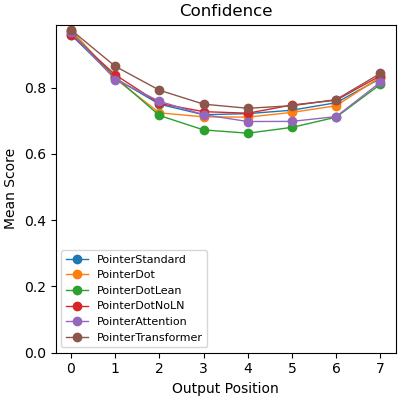
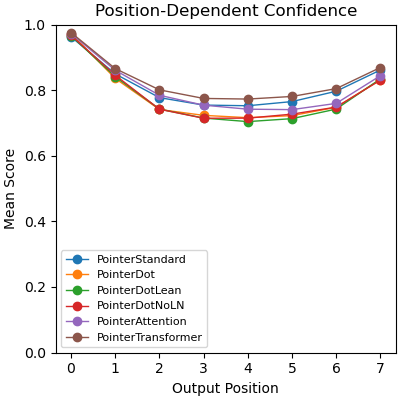
Supervised results for TSP

diff --git a/experiments/ptrArchComp_TSP_SL.py b/experiments/ptrArchComp_TSP_SL.py
@@ -89,10 +89,18 @@ def trainTestModel():
     print(f"Doing training...")
     trainLoss = torch.zeros((trainEpochs, numNets, numRuns))
     testLoss = torch.zeros((testEpochs, numNets, numRuns))
+    trainTourLength = torch.zeros((trainEpochs, numNets, numRuns))
+    testTourLength = torch.zeros((testEpochs, numNets, numRuns))
+    trainTourComplete = torch.zeros((trainEpochs, numNets, numRuns))
+    testTourComplete = torch.zeros((testEpochs, numNets, numRuns))
+    trainTourValidLength = torch.zeros((trainEpochs, numNets, numRuns))
+    testTourValidLength = torch.zeros((testEpochs, numNets, numRuns))
     trainPositionError = torch.full((trainEpochs, num_cities, numNets, numRuns), torch.nan) # keep track of where there was error
     trainMaxScore = torch.full((trainEpochs, num_cities, numNets, numRuns), torch.nan) # keep track of confidence of model
     testMaxScore = torch.full((testEpochs, num_cities, numNets, numRuns), torch.nan) 
     for run in range(numRuns):
+        print(f"Training round of networks {run+1}/{numRuns}...")
+        
         # create pointer networks with different pointer methods
         nets = [transformers.PointerNetwork(input_dim, embedding_dim, temperature=temperature, pointer_method=POINTER_METHOD, 
                                             thompson=False, encoding_layers=encoding_layers, heads=heads, kqnorm=True, 
@@ -105,12 +113,12 @@ def trainTestModel():
 
         for epoch in tqdm(range(trainEpochs)):
             # generate batch
-            input, target = datasets.tsp_batch(batchSize, num_cities)
-            input, target = input.to(device), target.to(device)
+            input, target, _, dists = datasets.tsp_batch(batchSize, num_cities, return_full=True)
+            input, target, dists = input.to(device), target.to(device), dists.to(device)
 
             # zero gradients, get output of network
             for opt in optimizers: opt.zero_grad()
-            log_scores, _ = map(list, zip(*[net(input) for net in nets]))
+            log_scores, choices = map(list, zip(*[net(input) for net in nets]))
 
             # measure loss with negative log-likelihood
             unrolled = [log_score.view(-1, log_score.size(-1)) for log_score in log_scores]
@@ -127,6 +135,11 @@ def trainTestModel():
 
             # measure position dependent error 
             with torch.no_grad():
+                # get distance traveled
+                tour_complete, tour_distance = map(list, zip(*[training.measureReward_tsp(dists, choice) for choice in choices]))
+                tour_complete = [torch.all(tc==1, dim=1) for tc in tour_complete]
+                tour_distance = [torch.sum(td, dim=1) for td in tour_distance]
+                
                 # start by getting score for target at each position 
                 target_score = [torch.gather(unroll, dim=1, index=target.view(-1,1)).view(batchSize, num_cities) for unroll in unrolled]
                 # then get max score for each position (which would correspond to the score of the actual choice)
@@ -135,7 +148,12 @@ def trainTestModel():
                 pos_error = [ms - ts for ms, ts in zip(max_score, target_score)] # high if the chosen score is much bigger than the target score
                     
                 # add to accounting
-                for i, (pe, ms) in enumerate(zip(pos_error, max_score)):
+                for i, (td, tc, pe, ms) in enumerate(zip(tour_distance, tour_complete, pos_error, max_score)):
+                    trainTourLength[epoch, i, run] = torch.mean(td)
+                    trainTourComplete[epoch, i, run] = torch.mean(1.0*tc)
+                    t_check = torch.cat((td[tc], torch.tensor(torch.nan).view(1).to(device)))
+                    trainTourValidLength[epoch, i, run] = torch.nanmean(t_check)
+                
                     trainPositionError[epoch, :, i, run] = torch.nansum(pe, dim=0)
                     trainMaxScore[epoch, :, i, run] = torch.nanmean(ms, dim=0)
                     
@@ -144,28 +162,43 @@ def trainTestModel():
             print('Testing network...')
             for epoch in tqdm(range(testEpochs)):
                 # generate batch
-                input, target = datasets.tsp_batch(batchSize, num_cities)
-                input, target = input.to(device), target.to(device)
+                input, target, _, dists = datasets.tsp_batch(batchSize, num_cities, return_full=True)
+                input, target, dists = input.to(device), target.to(device), dists.to(device)
 
-                log_scores, _ = map(list, zip(*[net(input) for net in nets]))
+                log_scores, choices = map(list, zip(*[net(input) for net in nets]))
         
                 # measure loss with negative log-likelihood
                 unrolled = [log_score.view(-1, log_score.size(-1)) for log_score in log_scores]
                 loss = [torch.nn.functional.nll_loss(unroll, target.view(-1)) for unroll in unrolled]
                 assert all([not np.isnan(l.item()) for l in loss]), "model diverged :("
 
+                # get distance traveled
+                tour_complete, tour_distance = map(list, zip(*[training.measureReward_tsp(dists, choice) for choice in choices]))
+                tour_complete = [torch.all(tc==1, dim=1) for tc in tour_complete]
+                tour_distance = [torch.sum(td, dim=1) for td in tour_distance]
+                
                 # get max score 
                 max_score = [torch.max(unroll, dim=1)[0].view(batchSize, num_cities) for unroll in unrolled]
-                
+
                 # save training data
-                for i, (l, ms) in enumerate(zip(loss, max_score)):
+                for i, (l, td, tc, ms) in enumerate(zip(loss, tour_distance, tour_complete, max_score)):
                     testLoss[epoch, i, run] = l.item()
+                    testTourLength[epoch, i, run] = torch.mean(td)
+                    testTourComplete[epoch, i, run] = torch.mean(1.0*tc)
+                    t_check = torch.cat((td[tc], torch.tensor(torch.nan).view(1).to(device)))
+                    testTourValidLength[epoch, i, run] = torch.nanmean(t_check)
                     testMaxScore[epoch, :, i, run] = torch.nanmean(ms, dim=0)
                 
                     
     results = {
         'trainLoss': trainLoss,
         'testLoss': testLoss,
+        'trainTourLength': trainTourLength,
+        'testTourLength': testTourLength,
+        'trainTourComplete': trainTourComplete,
+        'testTourComplete': testTourComplete,
+        'trainTourValidLength': trainTourLength,
+        'testTourValidLength': testTourLength,
         'trainPositionError': trainPositionError,
         'trainMaxScore': trainMaxScore,
         'testMaxScore': testMaxScore,
@@ -180,23 +213,14 @@ def plotResults(results, args):
     # make plot of loss trajectory
     fig, ax = plt.subplots(1,2,figsize=(6,4), width_ratios=[2.6,1],layout='constrained')
     for idx, name in enumerate(POINTER_METHODS):
-        ax[0].plot(range(args.train_epochs), torch.mean(results['trainLoss'][:,idx], dim=1), color=cmap(idx), lw=1.2, label=name)
+        cdata = sp.ndimage.median_filter(torch.mean(results['trainLoss'][:,idx], dim=1), size=(100,))
+        ax[0].plot(range(args.train_epochs), cdata, color=cmap(idx), lw=1.2, label=name)
     ax[0].set_xlabel('Training Epoch')
     ax[0].set_ylabel(f'Loss N={numRuns}')
     ax[0].set_title('Training Performance')
     ax[0].set_ylim(0, None)
+    ax[0].legend(loc='upper right')
     yMin0, yMax0 = ax[0].get_ylim()
-
-    # create inset to show initial train trajectory
-    inset = ax[0].inset_axes([0.05, 0.52, 0.45, 0.4])
-    for idx, name in enumerate(POINTER_METHODS):
-        inset.plot(range(args.train_epochs), torch.mean(results['trainLoss'][:,idx], dim=1), color=cmap(idx), lw=1.2, label=name)
-    inset.set_xlim(-10, 300)
-    inset.set_ylim(0, None)
-    inset.set_xticks([0, 150, 300])
-    inset.set_xticklabels(inset.get_xticklabels(), fontsize=8)
-    inset.set_yticklabels([])
-    inset.set_title('Initial Epochs', fontsize=10)
     
     xOffset = [-0.2, 0.2]
     get_x = lambda idx: [xOffset[0]+idx, xOffset[1]+idx]
@@ -209,10 +233,40 @@ def plotResults(results, args):
     ax[1].set_ylabel(f'Loss N={numRuns}')
     ax[1].set_title('Test Performance')
     ax[1].set_xlim(-1, len(POINTER_METHODS))
-    ax[1].set_ylim(0, None)
+    ax[1].set_ylim(0, 0.8)
 
     if not(args.nosave):
         plt.savefig(str(figsPath/getFileName()))
+    
+    plt.show()
+
+    # make plot of fraction complete tours
+    fig, ax = plt.subplots(1,2,figsize=(6,4), width_ratios=[2.6,1],layout='constrained')
+    for idx, name in enumerate(POINTER_METHODS):
+        cdata = sp.ndimage.median_filter(torch.mean(results['trainTourComplete'][:,idx], dim=1), size=(100,))
+        ax[0].plot(range(args.train_epochs), cdata, color=cmap(idx), lw=1.2, label=name)
+    ax[0].set_xlabel('Training Epoch')
+    ax[0].set_ylabel(f'fraction N={numRuns}')
+    ax[0].set_title('Complete Tours - Training')
+    ax[0].set_ylim(0, 1)
+    ax[0].legend(loc='lower right')
+    yMin0, yMax0 = ax[0].get_ylim()
+    
+    xOffset = [-0.2, 0.2]
+    get_x = lambda idx: [xOffset[0]+idx, xOffset[1]+idx]
+    for idx, name in enumerate(POINTER_METHODS):
+        mnTestComplete = torch.mean(results['testTourComplete'][:,idx], dim=0)
+        ax[1].plot(get_x(idx), [mnTestComplete.mean(), mnTestComplete.mean()], color=cmap(idx), lw=4, label=name)
+        ax[1].plot([idx,idx], [mnTestComplete.min(), mnTestComplete.max()], color=cmap(idx), lw=1.5)
+    ax[1].set_xticks(range(len(POINTER_METHODS)))
+    ax[1].set_xticklabels([pmethod[7:] for pmethod in POINTER_METHODS], rotation=45, ha='right', fontsize=8)
+    ax[1].set_ylabel(f'fraction N={numRuns}')
+    ax[1].set_title('Testing')
+    ax[1].set_xlim(-1, len(POINTER_METHODS))
+    ax[1].set_ylim(0, 1)
+
+    if not(args.nosave):
+        plt.savefig(str(figsPath/getFileName('completedTours')))
     
     plt.show()
 
@@ -223,8 +277,8 @@ def plotResults(results, args):
         ax.plot(range(numPos), torch.mean(torch.exp(results['testMaxScore'][:,:,idx]), dim=(0,2)), color=cmap(idx), lw=1, marker='o', label=name)
     ax.set_xlabel('Output Position')
     ax.set_ylabel('Mean Score')
-    ax.set_title('Confidence')
-    ax.set_ylim(0, None)
+    ax.set_title('Position-Dependent Confidence')
+    ax.set_ylim(0, 1)
     ax.legend(loc='lower left', fontsize=8)
 
     if not(args.nosave):
